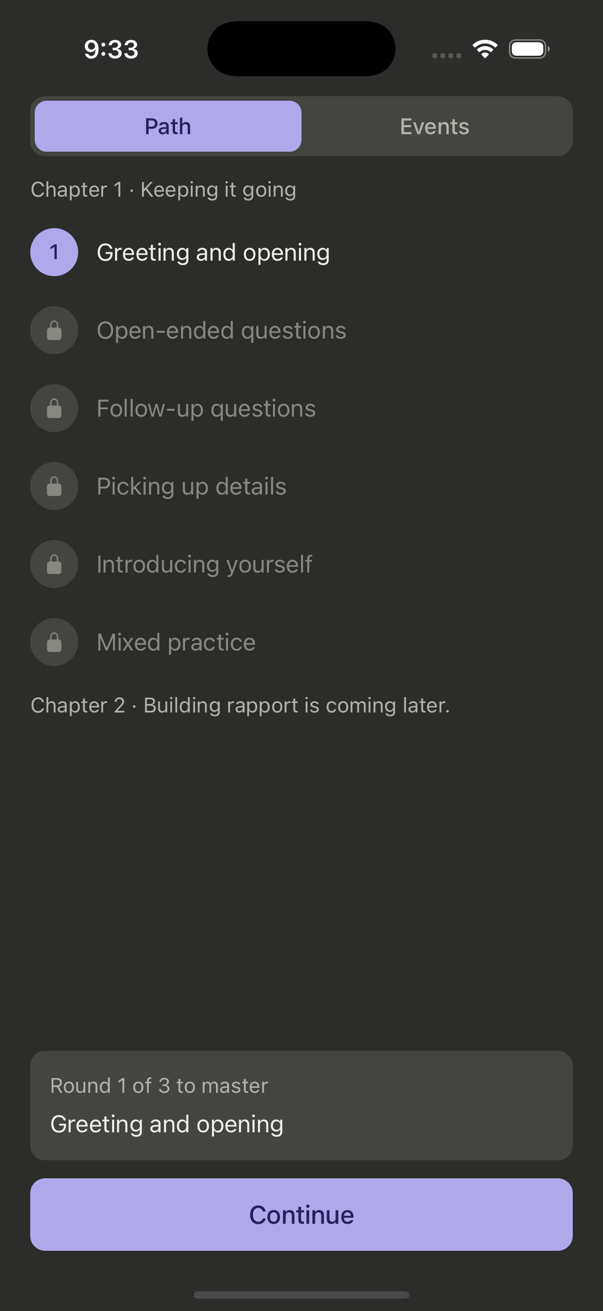
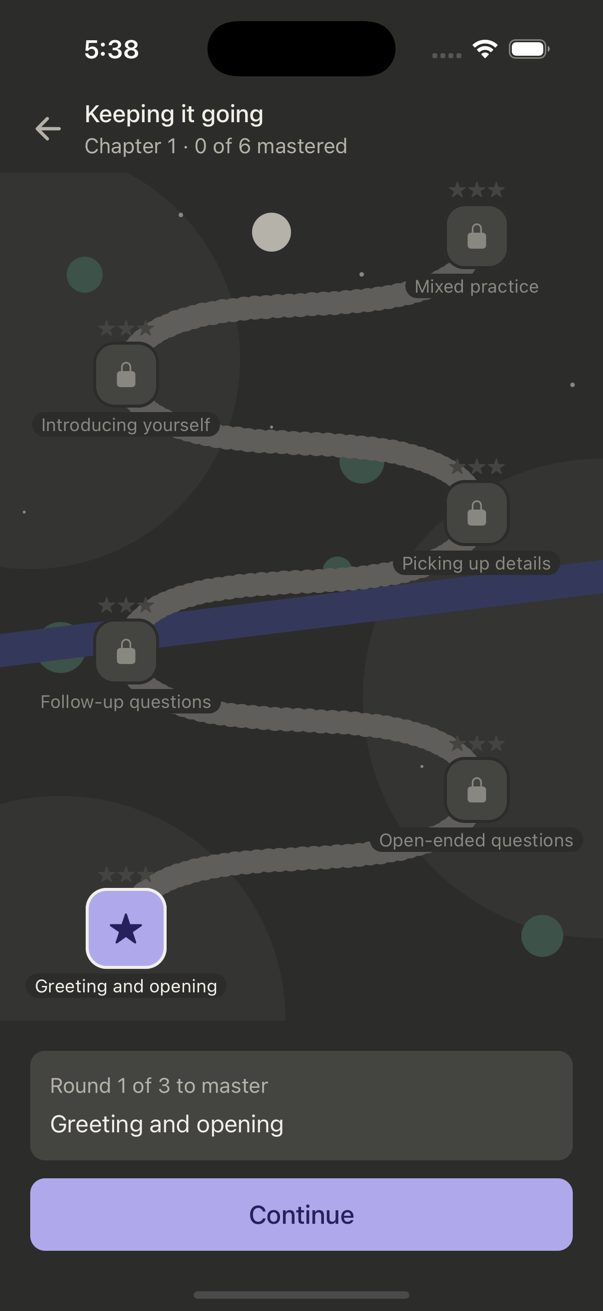
Centre the landing buttons and bring the README up to date
The Path and Events buttons now sit in the middle of the landing
screen. The README gets a Home screenshot, retaken Path and Events
screenshots, and text for the landing screen, the map and stars.

diff --git a/rep/App.tsx b/rep/App.tsx
@@ -82,7 +82,9 @@ function Landing({ go }: { go: (s: Screen) => void }) {
   );
 
   return (
-    <Page actions={<>
+    <View style={{ flex: 1, backgroundColor: c.bg, justifyContent: 'center', padding: 20, gap: 12 }}>
+      <Text style={[t.h, { textAlign: 'center' }]} accessibilityRole="header">Rep</Text>
+      <Text style={[t.dim, { textAlign: 'center', marginBottom: 12 }]}>What do you want to practise?</Text>
       <Pressable accessibilityRole="button" accessibilityLabel={`Path. Next: ${next.name}. ${done} of ${skills.length} skills mastered`} onPress={() => go({ name: 'path' })}>
         <Card outlined>
           {title('map', 'Path')}
@@ -98,11 +100,8 @@ function Landing({ go }: { go: (s: Screen) => void }) {
           <Text style={[t.dim, { paddingBottom: 8 }]}>Rehearse a date or networking</Text>
         </Card>
       </Pressable>
-    </>}>
-      <Text style={t.h} accessibilityRole="header">Rep</Text>
-      <Text style={t.dim}>What do you want to practise?</Text>
-      {!hasKey && <Text style={t.dim}>No Gemini key found. Add EXPO_PUBLIC_GEMINI_KEY to rep/.env and restart.</Text>}
-    </Page>
+      {!hasKey && <Text style={[t.dim, { textAlign: 'center' }]}>No Gemini key found. Add EXPO_PUBLIC_GEMINI_KEY to rep/.env and restart.</Text>}
+    </View>
   );
 }
 

diff --git a/README.md b/README.md
@@ -12,19 +12,25 @@ The content is based on a research summary of the conversation literature: studi
 
 ## Screens
 
-| Path | Events | Event moments |
+| Home | Path | Events |
 |---|---|---|
-| <img src="docs/screens/1-path.png" width="220" alt="Path screen: a chapter of skills, the first one current and the rest locked, with a Continue button at the bottom"> | <img src="docs/screens/2-events.png" width="220" alt="Events screen: a list with A date and Networking"> | <img src="docs/screens/3-event.png" width="220" alt="A date: partner style choices and five moments to rehearse, with Start rehearsal at the bottom"> |
+| <img src="docs/screens/0-home.png" width="220" alt="Home screen: two large buttons in the middle, Path showing the next skill and a progress bar, and Events"> | <img src="docs/screens/1-path.png" width="220" alt="Path screen: a night map with a winding road and a star-rated stop for each skill, the first one current and the rest locked, with a Continue button at the bottom"> | <img src="docs/screens/2-events.png" width="220" alt="Events screen: a back arrow and a list with A date and Networking"> |
 
-| Lesson | Conversation | Feedback |
+| Event moments | Lesson | Conversation |
 |---|---|---|
-| <img src="docs/screens/4-lesson.png" width="220" alt="Lesson screen: the skill explained, an example, the scene and the goal"> | <img src="docs/screens/5-conversation.png" width="220" alt="Conversation screen: the goal, a circle for the character Dana, her last line, and Mic, Stuck and Type buttons above End conversation"> | <img src="docs/screens/6-feedback.png" width="220" alt="Feedback screen: goal met, what worked, and a line to try next time"> |
+| <img src="docs/screens/3-event.png" width="220" alt="A date: partner style choices and five moments to rehearse, with Start rehearsal at the bottom"> | <img src="docs/screens/4-lesson.png" width="220" alt="Lesson screen: the skill explained, an example, the scene and the goal"> | <img src="docs/screens/5-conversation.png" width="220" alt="Conversation screen: the goal, a circle for the character Dana, her last line, and Mic, Stuck and Type buttons above End conversation"> |
+
+| Feedback |
+|---|
+| <img src="docs/screens/6-feedback.png" width="220" alt="Feedback screen: goal met, what worked, and a line to try next time"> |
 
 ## Features
 
 **Two ways to practise**
 
-- **Path.** A roadmap of skills that unlock in order: greeting and opening, open-ended questions, follow-up questions, picking up details, and introducing yourself. A skill is mastered after three rounds in which you meet its goal. After that it stays open, and your practice partner gets harder every three rounds. Each chapter ends in a mixed-practice round that never runs out.
+The app opens on two buttons, Path and Events. A back arrow in either one returns you there to switch.
+
+- **Path.** A night map with a winding road. Each skill is a stop on the road, and they unlock in order: greeting and opening, open-ended questions, follow-up questions, picking up details, and introducing yourself. Each round in which you meet a skill's goal earns it a star, and three stars master it. After that it stays open, and your practice partner gets harder every three rounds. Each chapter ends in a mixed-practice round that never runs out.
 - **Events.** Rehearsal for something coming up. Pick an event (a date or networking, so far), choose how the other person behaves (easy-going, reserved or hard to read), and rehearse one moment at a time, such as the first five minutes or leaving gracefully.
 
 **In a conversation**
@@ -46,7 +52,7 @@ The content is based on a research summary of the conversation literature: studi
 ```mermaid
 flowchart TD
     Home[Home] --> Choice{Path or Events?}
-    Choice -->|Path| Skill[Next skill on the roadmap]
+    Choice -->|Path| Skill[Next skill on the map]
     Choice -->|Events| Moment[Pick an event, a moment and a partner style]
     Skill --> Lesson[Lesson: the skill, an example and your goal]
     Moment --> Brief[Brief: a tip, the scene and your goal]
